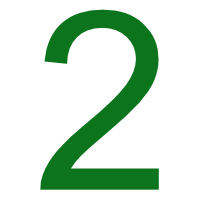
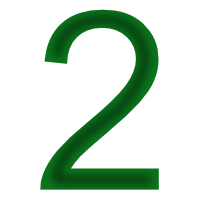
changed the numbers images to be easier to look at

Changed region(s): [[0.24, 0.06, 0.75, 0.93]]

diff --git a/MineSweeper/MineSweeperMain.py b/MineSweeper/MineSweeperMain.py
@@ -186,7 +186,7 @@ def drawHeaderRegion(screen, gs):
 def drawEndText(screen, text):
     font = p.font.SysFont("Helvitica", 32, True, False)
     textObject = font.render(text, 0, p.Color('Gray'))
-    textLocation = p.Rect(0,0, WIDTH, HEIGHT).move(WIDTH/2 - textObject.get_width()/2, HEIGHT/2 - textObject.get_height()/2)
+    textLocation = p.Rect(0,0, WIDTH, HEIGHT).move(WIDTH/2 - textObject.get_width()/2,  textObject.get_height()/2)
     screen.blit(textObject, textLocation)
     textObject = font.render(text, 0, p.Color('Black'))
     screen.blit(textObject, textLocation.move(2,2))
